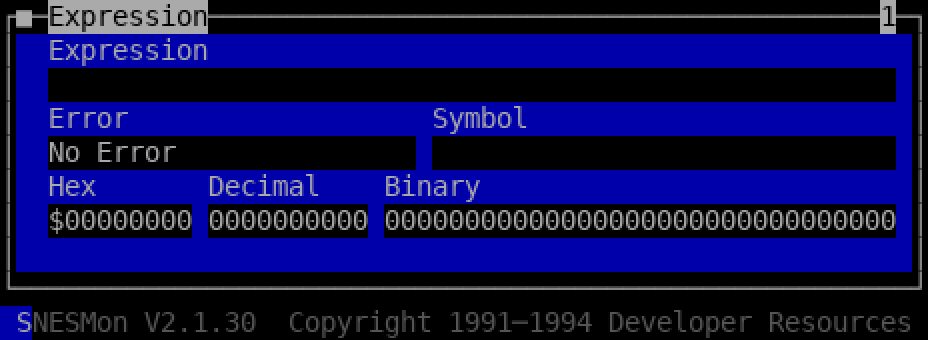
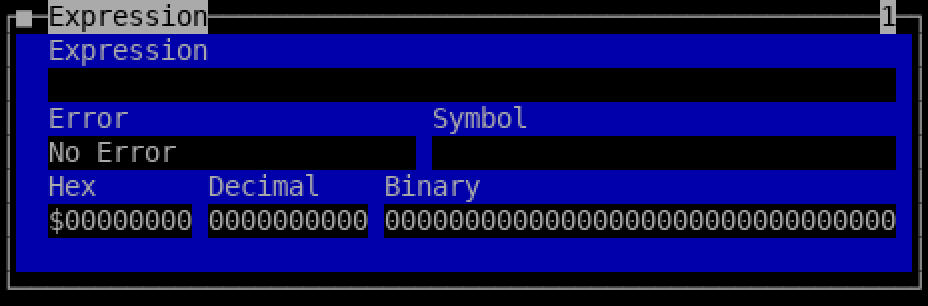
docs(drmon): add memory view-mode variants; fix Watch/Expression bottom crop
render_ansi.py: exclude last row (status bar) from box-drawing scan — the
status bar "1991─1994" has ─ on black background, bypassing the DESKTOP_BG
filter, causing Watch and Expression to include the status bar in their crop.
Excluding the final row handles it cleanly since no window uses that row.

Taskfile: add capmem() helper and capture memory_bytes/words/long/disasm/ascii.

Manual: embed 5 memory view-mode images in a 3+2 grid under the Memory section.

diff --git a/devsys/tools/drmon/linux/render_ansi.py b/devsys/tools/drmon/linux/render_ansi.py
@@ -116,7 +116,7 @@ def render(ansi_file, out_file, scale=2):
     # window extent. The DESKTOP_BG guard excludes the status bar "1991─1994" (its
     # ─ sits on blue) and the menu bar. Scanning from row 0 captures top borders.
     r1 = r2 = c1 = c2 = None
-    for ri in range(len(padded)):
+    for ri in range(len(padded) - 1):  # exclude last row (status bar)
         for ci in range(n_cols):
             ch, fg, bg = padded[ri][ci]
             if _is_box(ch) and bg != DESKTOP_BG:

diff --git a/devsys/tools/drmon/docs/drmon-manual.md b/devsys/tools/drmon/docs/drmon-manual.md
@@ -73,6 +73,16 @@ arrows / PgUp / PgDn. *(values read as zero until a backend is wired)*
 | `Ctrl+Y` | view as ASCII | | `Ctrl+N` | set break-with-count at cursor |
 | `Ctrl+H` | run to cursor | | `Ctrl+A` | clear all breakpoints |
 
+**View modes:**
+
+| Bytes (`Ctrl+B`) | Words (`Ctrl+W`) | Long words (`Ctrl+L`) |
+|---|---|---|
+| <img src="img/memory_bytes.png" width="336"> | <img src="img/memory_words.png" width="336"> | <img src="img/memory_long.png" width="336"> |
+
+| Disassembly (`Ctrl+D`) | ASCII (`Ctrl+Y`) |
+|---|---|
+| <img src="img/memory_disasm.png" width="336"> | <img src="img/memory_ascii.png" width="336"> |
+
 ### Register — `Alt+R` (single)
 View and set the current 65816 registers (A, X, Y, P/flags, D, DB, PB, SP, PC); flags are shown
 individually. Click a register to open an Expression window prompting for a new value.
